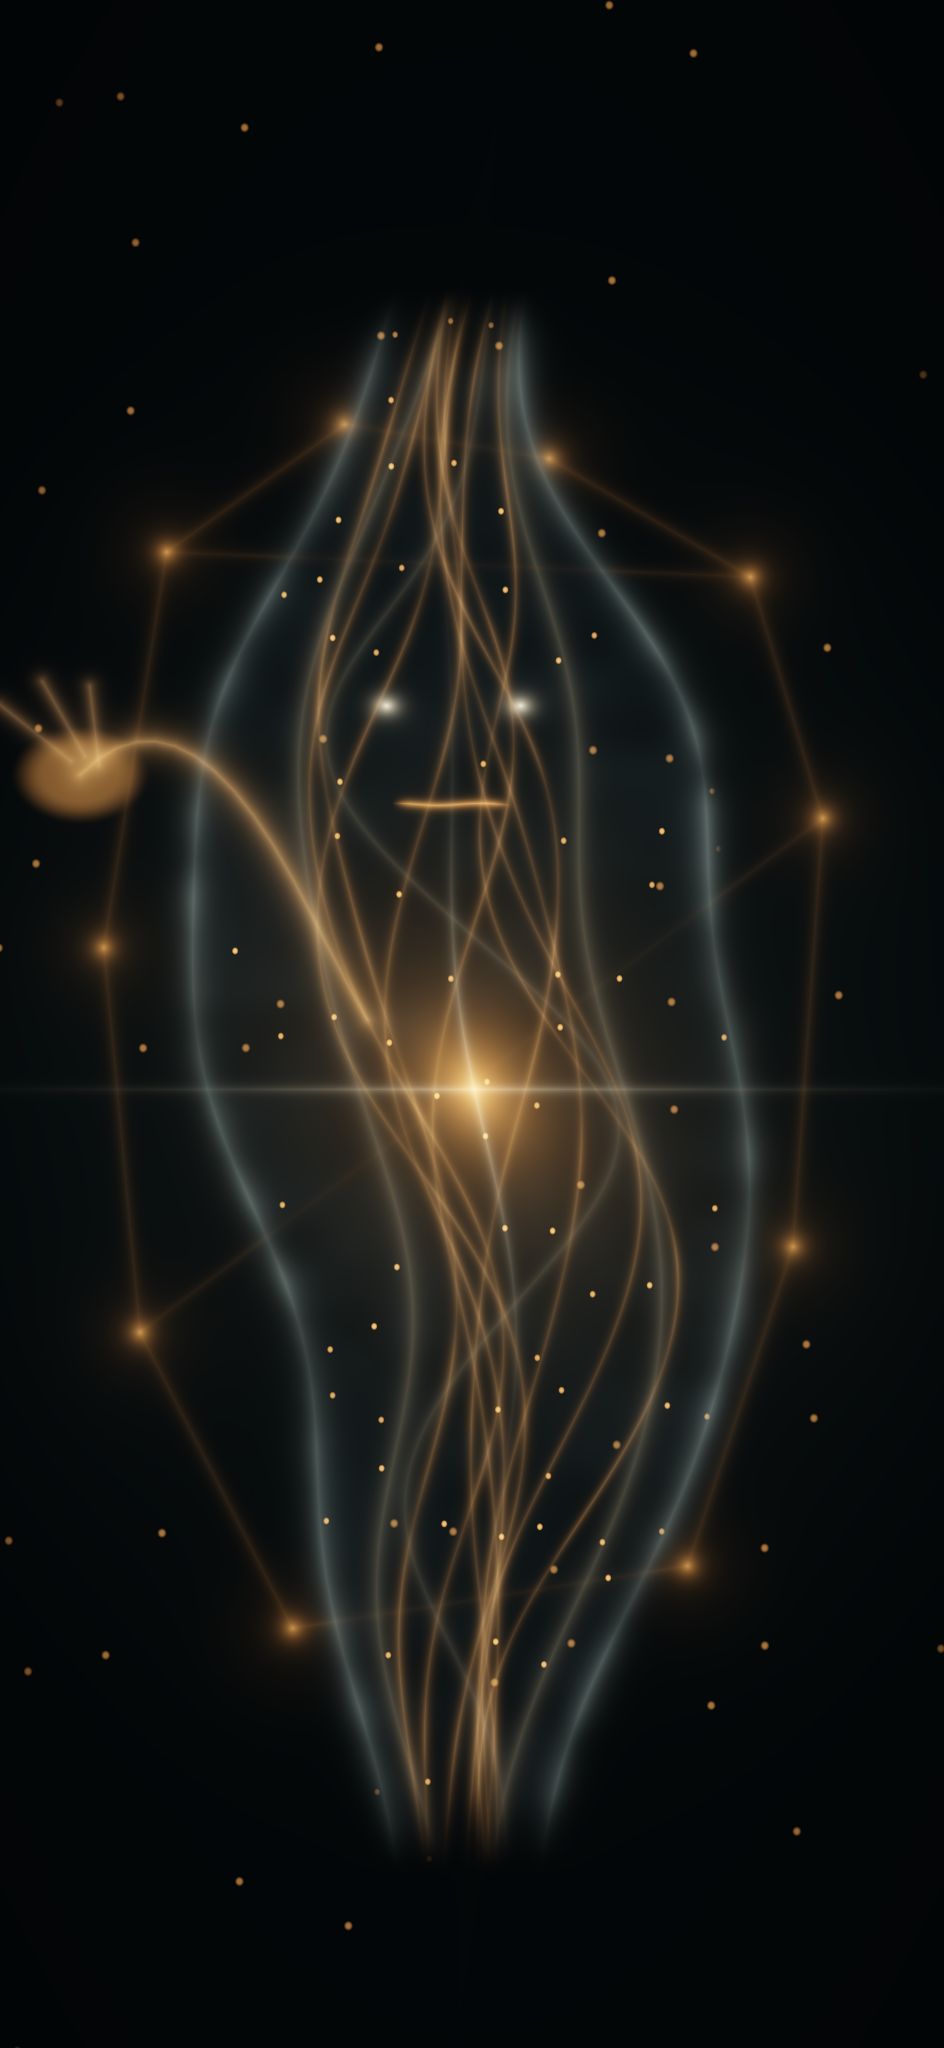
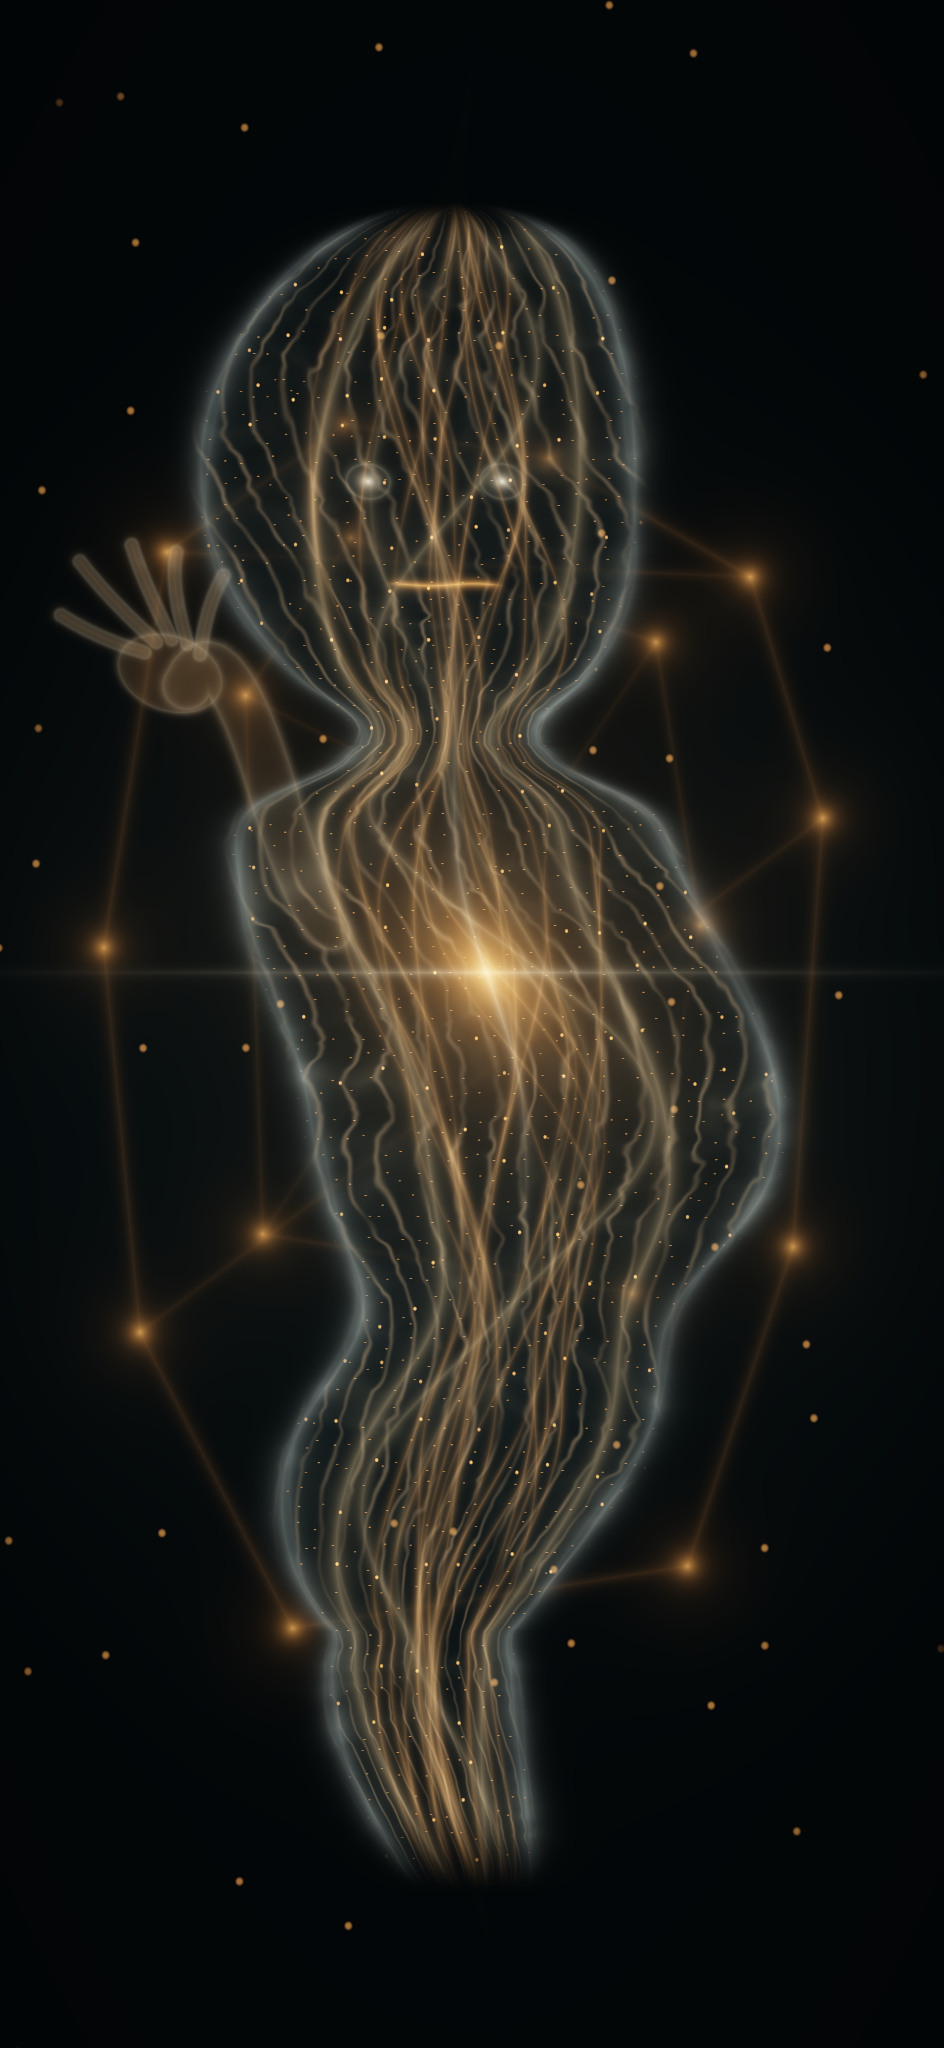
Refine the production thought field proportions

Changed region(s): [[0.0, 0.0938, 0.8602, 0.9375]]

diff --git a/docs/avatar-system.md b/docs/avatar-system.md
@@ -26,7 +26,7 @@ identities, never the product's default or brand anchor.
 - reusable UV-sphere mesh, transformed into the head, body, eyes, hair, clothing,
   accessories, and expression geometry;
 - no image texture, generated portrait, downloaded model, or per-frame CPU geometry
-  is used by the default identity: black glass, nine internal filaments, moving motes,
+  is used by the default identity: black glass, sixteen internal filaments, moving motes,
   constellation links, core bloom, optical face, and temporary gesture are evaluated
   from the bundled `thought_field_fragment.glsl` for every rendered frame;
 - orbital inspection camera: drag to rotate and pinch to zoom;
